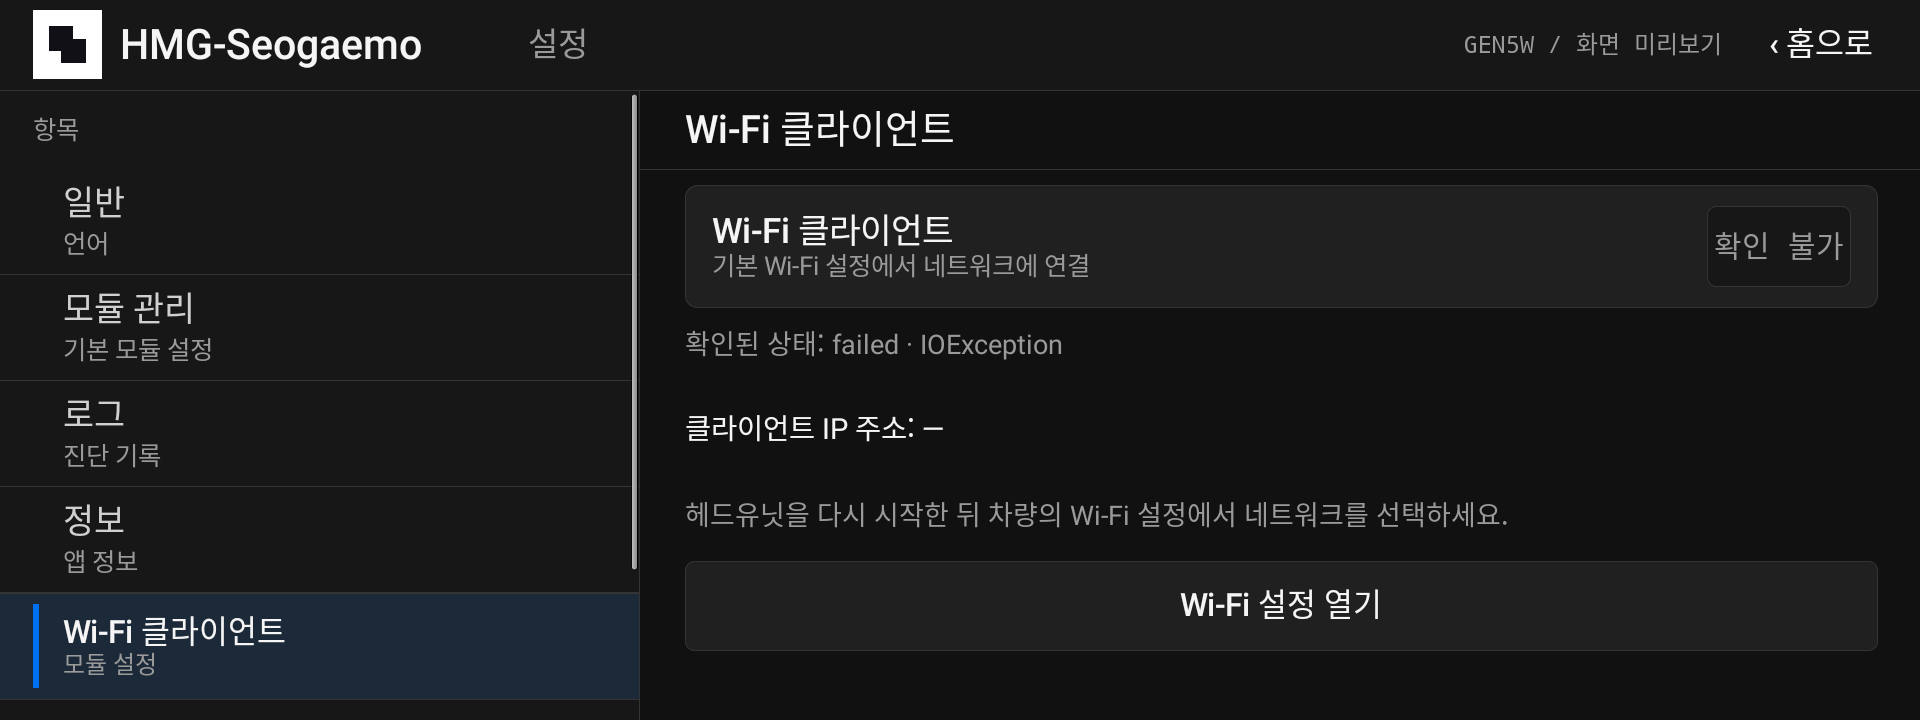
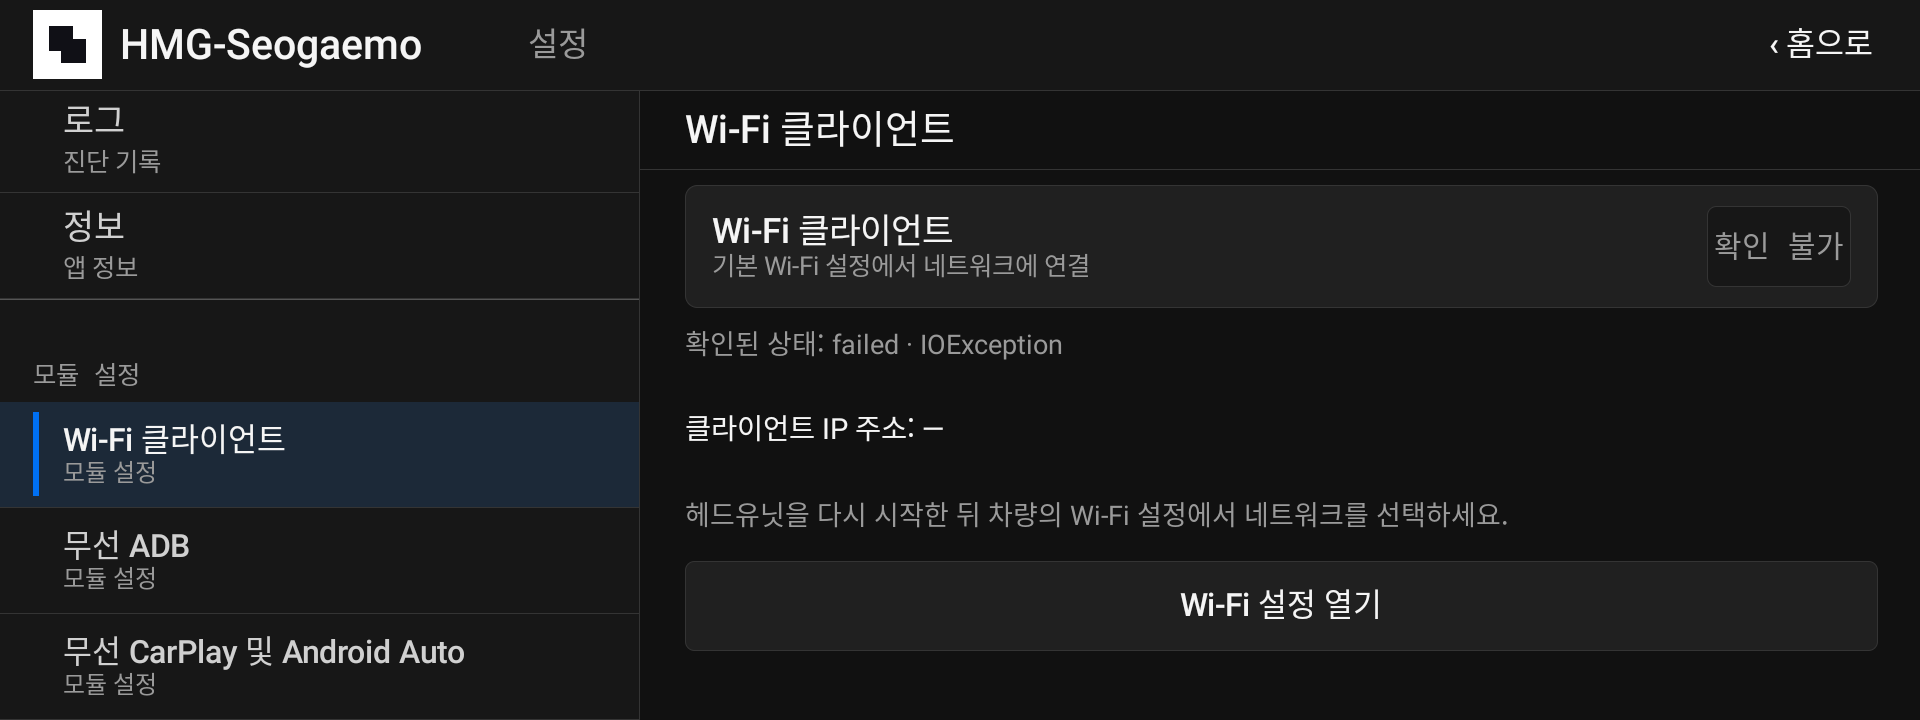
Clarify settings sidebar sections

diff --git a/app/src/com/seogaemo/hmg/MainActivity.java b/app/src/com/seogaemo/hmg/MainActivity.java
@@ -283,11 +283,12 @@ public final class MainActivity extends Activity {
         side.setBackgroundColor(SURFACE);
         sideScroll.addView(side);
         body.addView(sideScroll, new LinearLayout.LayoutParams(0, -1, 1));
-        TextView sideTitle = text(getString(R.string.categories), 17, MUTED, mono);
-        sideTitle.setPadding(dp(22), 0, 0, 0);
-        side.addView(sideTitle, new LinearLayout.LayoutParams(-1, dp(52)));
+        addSidebarSection(side, R.string.app, 0);
         for (int i = 0; i < CATEGORIES.length; i++) addCategory(side, i);
-        divider(side, false);
+        View sectionDivider = new View(this);
+        sectionDivider.setBackgroundColor(0xFF555555);
+        side.addView(sectionDivider, new LinearLayout.LayoutParams(-1, dp(1)));
+        addSidebarSection(side, R.string.module_settings, 24);
         for (int i = 0; i < ModuleRegistry.all().length; i++)
             addModuleCategory(side, i, ModuleRegistry.all()[i]);
         sideScroll.post(new Runnable() {
@@ -701,6 +702,15 @@ public final class MainActivity extends Activity {
         }
         if (success) pending.edit().clear().apply();
         return success;
+    }
+
+    private void addSidebarSection(LinearLayout parent, int titleRes, int topSpacingDp) {
+        TextView header = text(getString(titleRes), 17, MUTED, mono);
+        header.setPadding(dp(22), dp(8), 0, 0);
+        header.setFocusable(false);
+        LinearLayout.LayoutParams params = new LinearLayout.LayoutParams(-1, dp(44));
+        params.topMargin = dp(topSpacingDp);
+        parent.addView(header, params);
     }
 
     private void addCategory(LinearLayout parent, final int index) {

diff --git a/.agents/ui-guidelines.md b/.agents/ui-guidelines.md
@@ -37,6 +37,8 @@ Paths below are relative to repository root. Dimensions are dp unless marked sp.
 
 Home demo cards have visual press states and no vehicle command; only Settings navigates. Settings category taps change the visible pane; module toggles execute through `ModuleManager` and the root dispatcher. Logs exports the change ledger to USB. General → Language persists: it stores `system`, `en`, or `ko` in SharedPreferences, updates `Configuration.locale` before rebuilding views, and recreates the Activity. Default strings are in `app/res/values/strings.xml`; Korean strings are in `app/res/values-ko/strings.xml`. The header and launcher draw the source logo proportions from `tmp/brand/logo-source.png`: two `#101016` squares on a white square, with no VectorDrawable.
 
+Settings sidebar sections use short, non-focusable monospace labels (App / 앱 and Module settings / 모듈 설정). A stronger full-width hairline and 24dp top gap distinguish module pages from core categories; clickable rows remain 70dp and retain the blue selected marker. The sidebar remains scrollable.
+
 ## API 19 compatibility
 
 Build with the installed `platforms/android-19/android.jar`: `aapt` links resources against it, `javac` uses `-source 1.7 -target 1.7 -bootclasspath`, and `d8` uses `--min-api 19 --lib` (`tmp/hmg_nemesis/Sources/manager/Makefile:24-36`). Keep Java compilation and dex generation in one recipe to avoid a stale dex (`Makefile`). The final APK is SHA1withRSA/SHA1 **v1 JAR signed**, then zipaligned, using the same JDK algorithm override (`app/allow-sha1.security:1-2`). Check with `apksigner verify --verbose --min-sdk-version 19 out/seogaemo.apk`.
